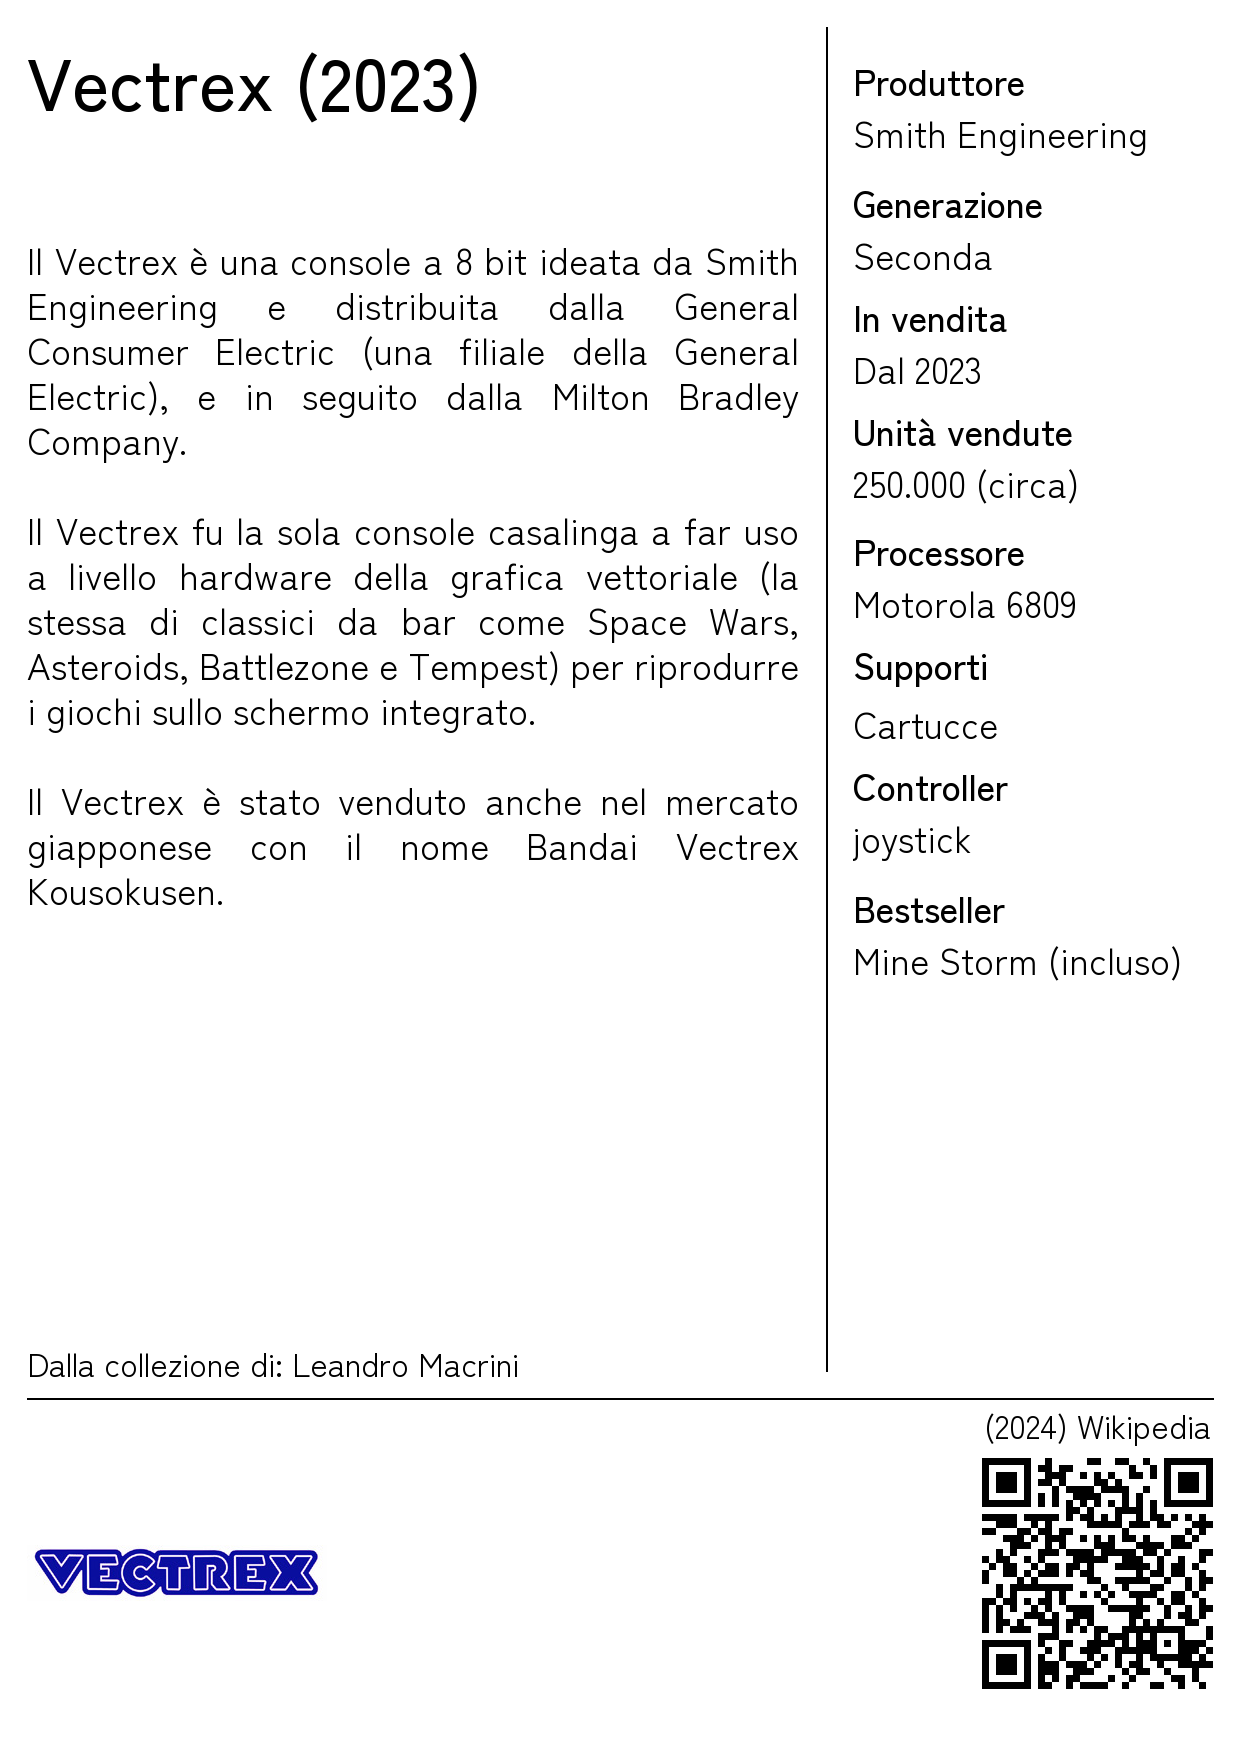
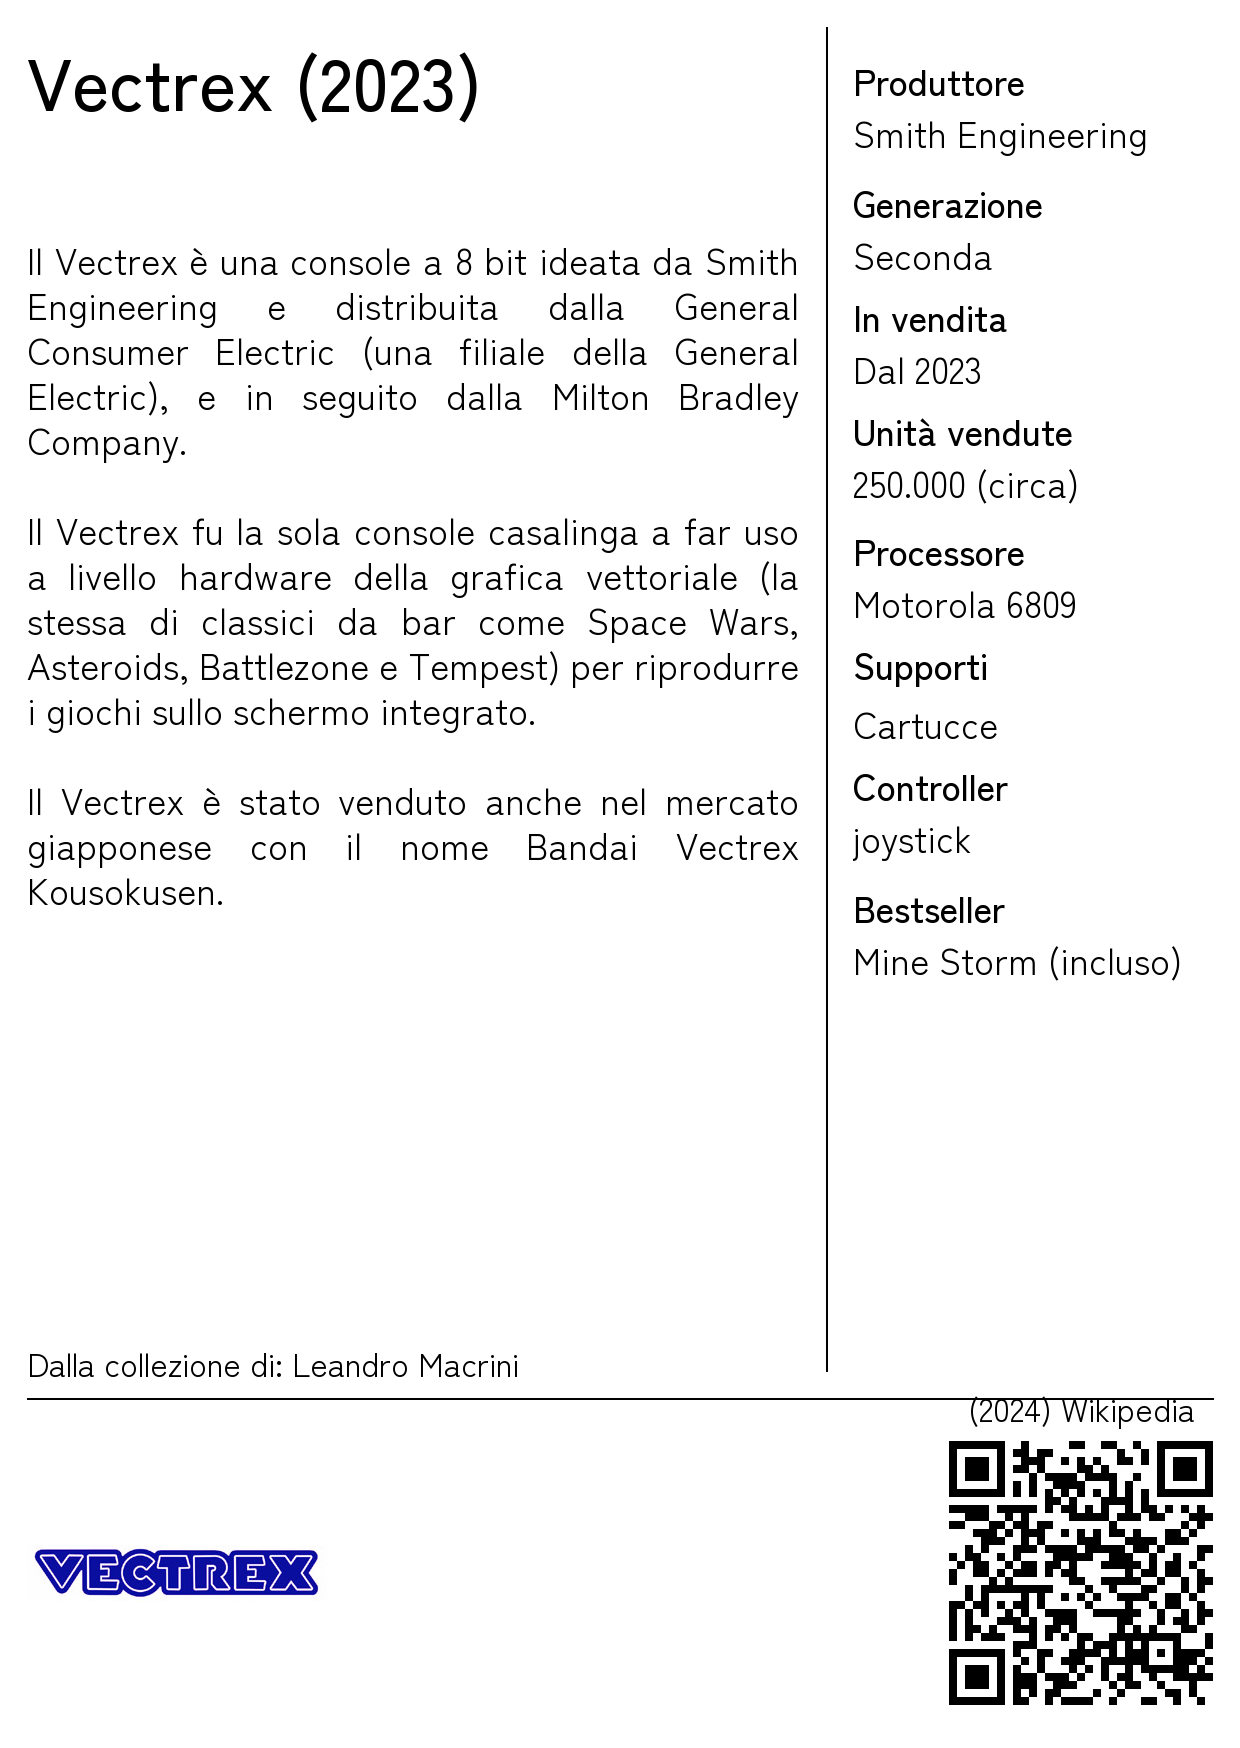
portatili

Changed region(s): [[0.7661, 0.8032, 0.9806, 0.9886]]

diff --git a/generateConsoleCards.portrait.py b/generateConsoleCards.portrait.py
@@ -147,10 +147,9 @@ def create_item_card(item_info, output_path="item_card.png"):
 	draw.line([(title_width, gap),(title_width, card_height* 4/5 - gap)], fill=text_color, width=2)
 
 	#QRCode URL
-	qrcode_size = 200
 	qr = qrcode.QRCode(
-		version=1,
-		box_size=7,
+		version=None,
+		box_size=7, #USE 8 FOR (R-ZONE)
 		border=0,
 		error_correction=qrcode.constants.ERROR_CORRECT_L
 	)
